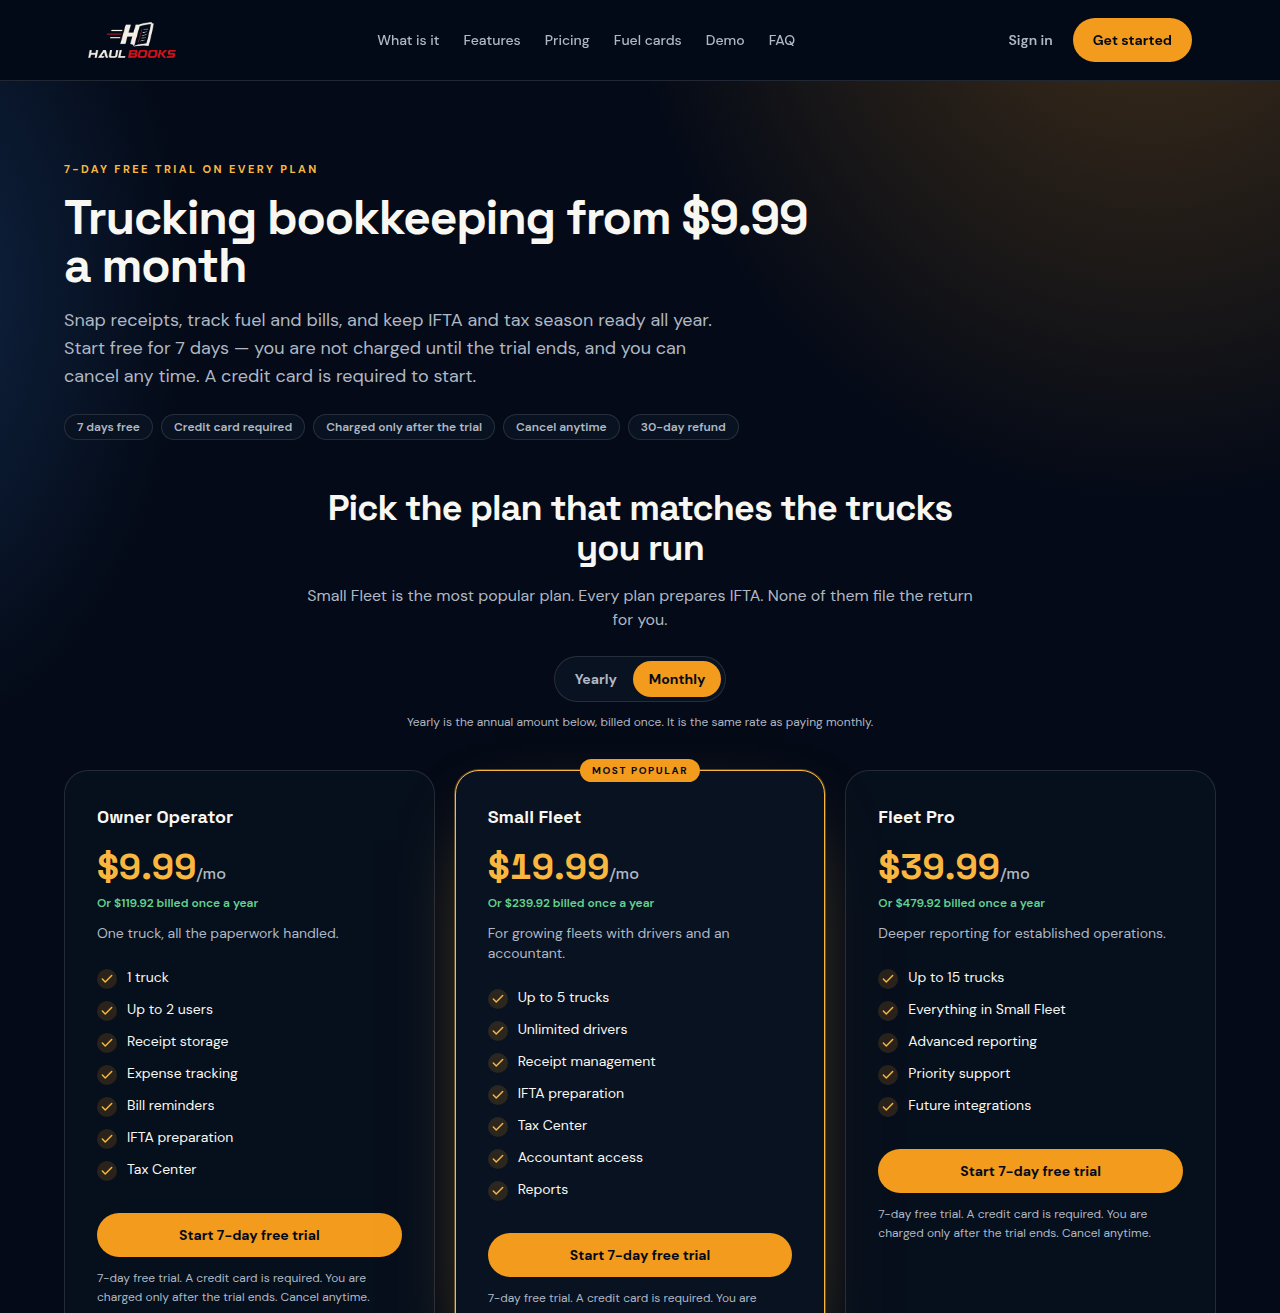
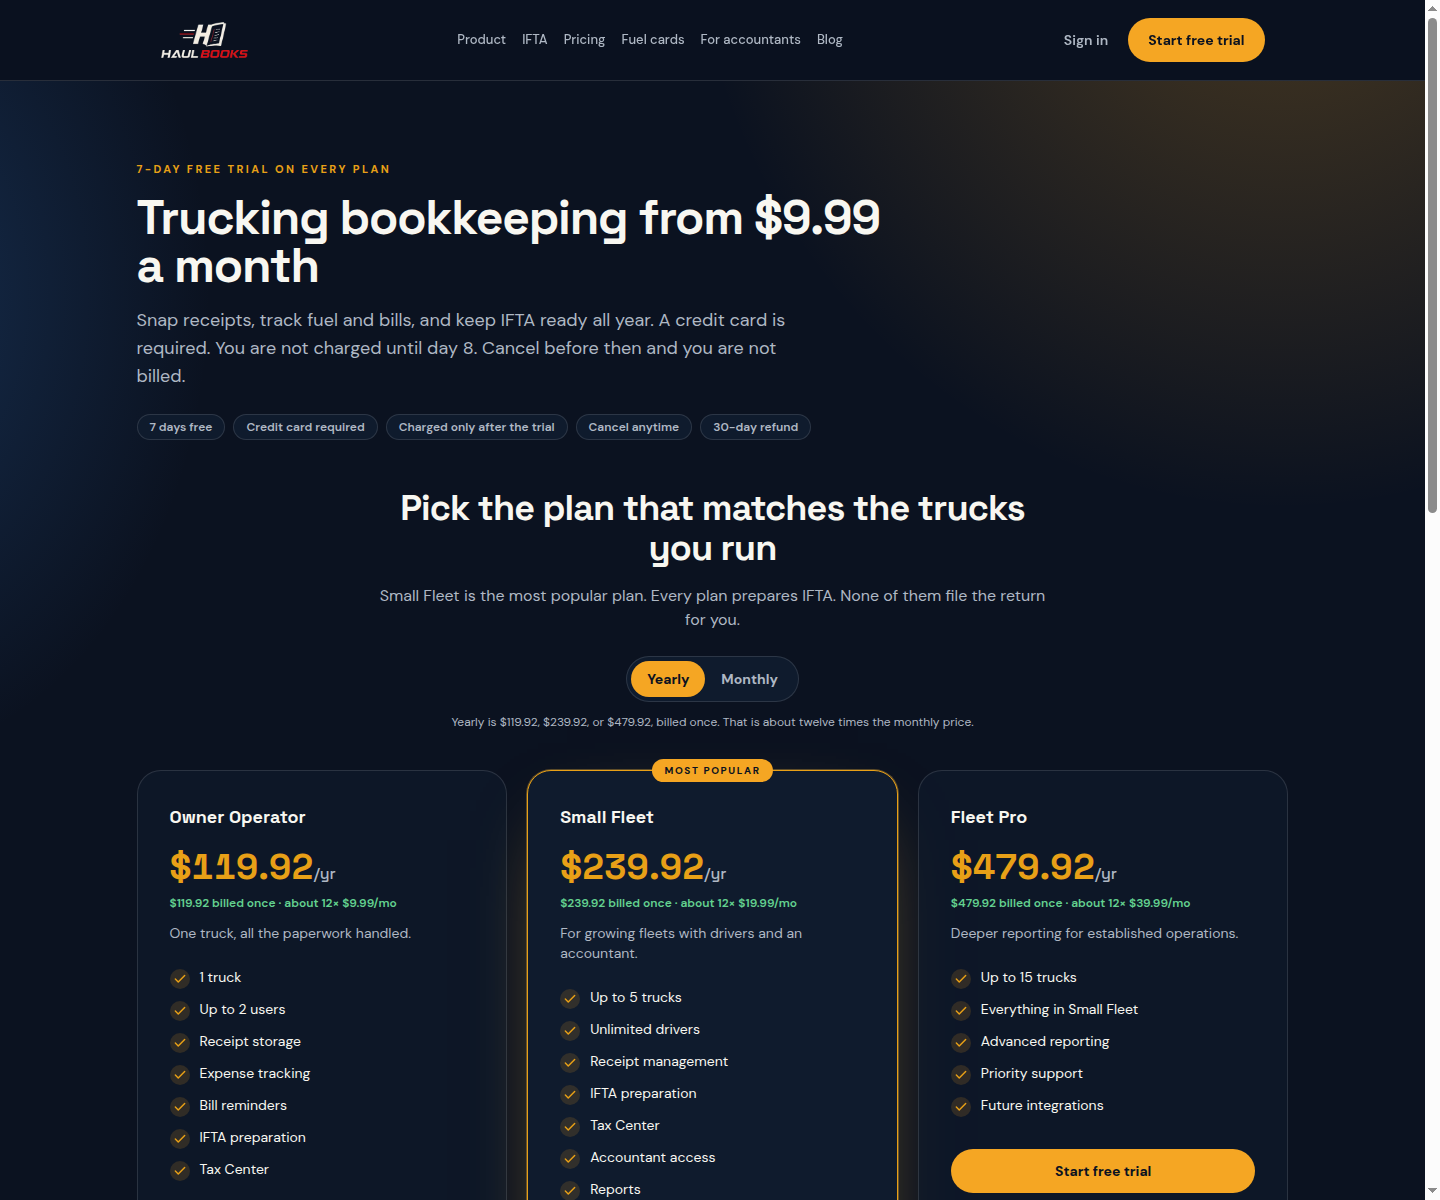
Align yearly pricing copy and refresh the pricing screenshot.
Homepage and pricing share one yearly sentence for $119.92, $239.92, and $479.92. The pricing preview now shows the slim header, not the old nav.

diff --git a/components/pricing-section.tsx b/components/pricing-section.tsx
@@ -1,7 +1,7 @@
 "use client";
 
 import { useState } from "react";
-import type { BillingInterval, PricedPlan } from "@/lib/plans";
+import { yearlyBillingNote, type BillingInterval, type PricedPlan } from "@/lib/plans";
 import { money } from "@/lib/format";
 import { ButtonLink, CheckItem, TrialNote } from "@/components/ui";
 
@@ -51,9 +51,7 @@ export function PricingSection({
             );
           })}
         </div>
-        <p className="mt-3 text-xs text-muted">
-          Yearly is the annual amount below, billed once. It is the same rate as paying monthly.
-        </p>
+        <p className="mt-3 text-xs text-muted">{yearlyBillingNote}</p>
       </div>
       <div className="mt-10 grid gap-5 lg:grid-cols-3">
         {plans.map((plan) => {
@@ -80,8 +78,8 @@ export function PricingSection({
               </p>
               <p className="mt-2 text-xs font-semibold text-success">
                 {interval === "yearly"
-                  ? `${money(plan.monthly)}/mo if you paid monthly · billed once`
-                  : `Or ${money(plan.yearly)} billed once a year`}
+                  ? `${money(plan.yearly)} billed once · about 12× ${money(plan.monthly)}/mo`
+                  : `Or ${money(plan.yearly)} billed once a year · about 12× monthly`}
               </p>
               <p className="mt-3 text-sm text-muted">{plan.tagline}</p>
               <ul className="mt-6 space-y-2.5">
@@ -104,7 +102,7 @@ export function PricingSection({
       </p>
       <p className="mx-auto mt-2 max-w-2xl text-center text-xs text-muted">
         Fifteen trucks is the maximum. Owner Operator is one truck, Small Fleet is up to five, Fleet Pro
-        is up to fifteen. Yearly is billed once at the annual total. It is the same rate as paying monthly.
+        is up to fifteen. {yearlyBillingNote}
       </p>
     </div>
   );

diff --git a/components/site-header.tsx b/components/site-header.tsx
@@ -1,8 +1,8 @@
 "use client";
 
-import Image from "next/image";
 import Link from "next/link";
 import { useState } from "react";
+import { BrandMark } from "@/components/brand-mark";
 import { nav } from "@/lib/content";
 import { ButtonLink } from "@/components/ui";
 
@@ -13,14 +13,7 @@ export function SiteHeader({ logoSrc }: { logoSrc: string }) {
     <header className="sticky top-0 z-40 border-b border-line bg-navy-950/85 backdrop-blur-xl">
       <div className="mx-auto flex h-16 max-w-6xl items-center justify-between gap-3 px-5 sm:h-20 sm:px-6">
         <Link href="/" className="flex shrink-0 items-center" onClick={() => setOpen(false)}>
-          <Image
-            src={logoSrc}
-            alt="HaulBooks Pro"
-            width={176}
-            height={72}
-            priority
-            style={{ width: "auto", height: "2.25rem" }}
-          />
+          <BrandMark src={logoSrc} priority />
         </Link>
         <nav className="hidden items-center gap-4 text-[13px] font-medium text-muted xl:flex" aria-label="Primary">
           {nav.map((item) => (

diff --git a/components/signup-flow.tsx b/components/signup-flow.tsx
@@ -4,7 +4,7 @@ import { useState } from "react";
 import Link from "next/link";
 import { checkoutLink } from "@/lib/checkout";
 import { money } from "@/lib/format";
-import { plans, signupHref, type BillingInterval, type PlanId } from "@/lib/plans";
+import { plans, signupHref, yearlyBillingNote, type BillingInterval, type PlanId } from "@/lib/plans";
 import { site } from "@/lib/site";
 import { ButtonLink, TrialNote } from "@/components/ui";
 
@@ -54,9 +54,7 @@ export function SignupFlow({
       {step === 1 ? (
         <div className="mt-8">
           <h2 className="font-display text-2xl font-bold">Choose a plan</h2>
-          <p className="mt-2 text-sm text-muted">
-            Yearly is billed once at the annual total. It is the same rate as paying monthly.
-          </p>
+          <p className="mt-2 text-sm text-muted">{yearlyBillingNote}</p>
           <div className="mt-4 inline-flex rounded-full border border-line bg-navy-900 p-1" role="radiogroup" aria-label="Billing interval">
             {(
               [

diff --git a/components/site-footer.tsx b/components/site-footer.tsx
@@ -1,5 +1,5 @@
-import Image from "next/image";
 import Link from "next/link";
+import { BrandMark } from "@/components/brand-mark";
 import { logoImage } from "@/lib/brand";
 import { site } from "@/lib/site";
 
@@ -26,13 +26,7 @@ export function SiteFooter() {
       <div className="mx-auto max-w-6xl px-5 py-14 sm:px-6">
         <div className="grid gap-10 sm:grid-cols-2 lg:grid-cols-4">
           <div className="lg:col-span-2">
-            <Image
-              src={logoImage()}
-              alt="HaulBooks Pro"
-              width={160}
-              height={66}
-              style={{ width: "auto", height: "2rem" }}
-            />
+            <BrandMark src={logoImage()} height="2rem" />
             <p className="mt-5 max-w-sm text-sm leading-relaxed text-muted">
               Bookkeeping, receipts, and IFTA prep for owner-operators and small fleets. Software, not
               tax advice. Fleets up to {site.maxTrucks} trucks.

diff --git a/app/opengraph-image.tsx b/app/opengraph-image.tsx
@@ -1,10 +1,24 @@
+import { readFile } from "node:fs/promises";
+import path from "node:path";
 import { ImageResponse } from "next/og";
 
 export const alt = "HaulBooks Pro — trucking bookkeeping and IFTA prep";
 export const size = { width: 1200, height: 630 };
 export const contentType = "image/png";
 
-export default function OpenGraphImage() {
+export default async function OpenGraphImage() {
+  try {
+    const branded = await readFile(path.join(process.cwd(), "public", "images", "og-share.png"));
+    return new Response(branded, {
+      headers: {
+        "Content-Type": "image/png",
+        "Cache-Control": "public, max-age=0, must-revalidate",
+      },
+    });
+  } catch {
+    // og-share.png is not in the repo yet. The generated card stays until it is.
+  }
+
   return new ImageResponse(
     (
       <div

diff --git a/app/ifta/page.tsx b/app/ifta/page.tsx
@@ -150,8 +150,8 @@ export default function IftaPage() {
           <p className="text-[11px] font-bold uppercase tracking-[0.18em] text-amber-400">Most fleets start here</p>
           <h2 className="mt-3 font-display text-3xl font-bold">Small Fleet · $19.99/mo</h2>
           <p className="mt-3 text-muted">
-            Up to 5 trucks, accountant access, and IFTA preparation. Yearly is $239.92 billed once — the
-            same rate as paying monthly.
+            Up to 5 trucks, accountant access, and IFTA preparation. Yearly is $119.92, $239.92, or
+            $479.92, billed once. That is about twelve times the monthly price.
           </p>
           <div className="mt-6">
             <ButtonLink href="/signup?plan=small-fleet&interval=yearly">Start free trial</ButtonLink>

diff --git a/lib/plans.ts b/lib/plans.ts
@@ -92,6 +92,10 @@ export function signupHref(plan: PlanId, interval: BillingInterval) {
   return `/signup?plan=${plan.replaceAll("_", "-")}&interval=${interval}`;
 }
 
+/** Same sentence on the homepage and the pricing page. Not a percentage-off claim. */
+export const yearlyBillingNote =
+  "Yearly is $119.92, $239.92, or $479.92, billed once. That is about twelve times the monthly price.";
+
 export function parseInterval(value: string | undefined): BillingInterval {
   return value === "monthly" ? "monthly" : "yearly";
 }

diff --git a/components/brand-mark.tsx b/components/brand-mark.tsx
@@ -1,0 +1,22 @@
+import Image from "next/image";
+
+export function BrandMark({
+  src,
+  height = "2.25rem",
+  priority = false,
+}: {
+  src: string;
+  height?: string;
+  priority?: boolean;
+}) {
+  return (
+    <Image
+      src={src}
+      alt="HaulBooks Pro"
+      width={176}
+      height={72}
+      priority={priority}
+      style={{ width: "auto", height }}
+    />
+  );
+}
